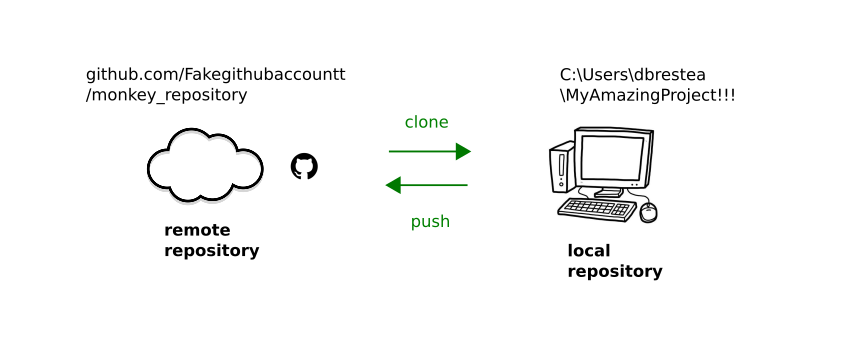
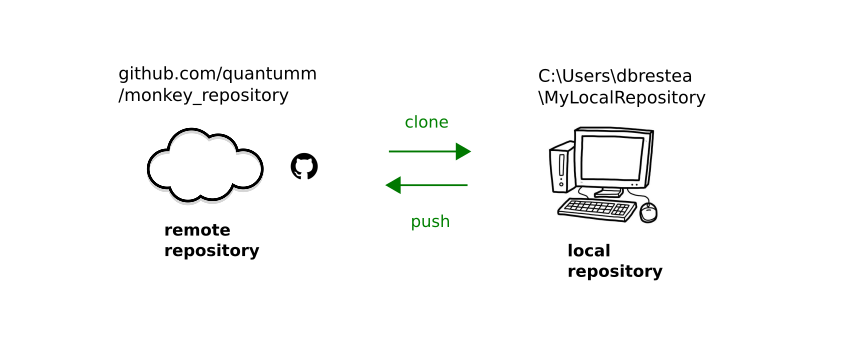
Git tutorial: clean Git basics up to Git in practice section.

Changed region(s): [[0.0927, 0.1714, 0.4328, 0.3143], [0.6183, 0.2, 0.8656, 0.3143]]

diff --git a/docs/src/tutorials/git_tutorial.rst b/docs/src/tutorials/git_tutorial.rst
@@ -492,32 +492,36 @@ First, we will need to create a personal account on GitHub. Please refer to the 
 Create a remote repository
 ++++++++++++++++++++++++++
 
-Once your profile is created, go to the top right of the screen and click on the icon representing your profile.
+Once our profile is created, we go to the top right of the screen and click on the icon representing our profile.
 
-.. figure:: /image/tutorial_git/github_account_2.png
+.. figure:: /image/tutorial_git/github_new_repository.png
     :width: 600
 
 Let’s create a remote repository.
 
-.. figure:: /image/tutorial_git/github_create_remote_repository_2.png
+.. figure:: /image/tutorial_git/github_new_repository_2.png
     :width: 600
 
-.. figure:: /image/tutorial_git/create_remote_repository.png
+.. figure:: /image/tutorial_git/github_new_repository_3.png
     :width: 600
 
-The next page will give us some help to *push* our *local repository* to the newly created *remote repository*.
+Let’s call it *monkey_repository* and click on *Create repository*.
 
-.. figure:: /image/tutorial_git/github_push_local_repository_2.png
-    :width: 600
+.. note::
+    Note that we can create a *public* or a *private* repository. If we want the other users of GitHub
+    to have access to the
+    code that we will put in this repository, we will make it public. Otherwise we will make it private.
 
 Let’s stop here for a bit of vocabulary:
 
 * Our **local repository** is the local folder that we created and configured to be followed by Git. Here it is our
-  *MyAmazingProject!!!* folder, that is stored on our local machine.
+  *MyLocalRepository* folder, that is stored on our local machine.
 * We call **remote repository** the one that we just created. Its name is *monkey_repository* and its Git address is
   *https://github.com/Fakegithubaccountt/monkey_repository.git*.
-* When we talk about **pushing**, we mean that we upload the state of our local repository to the remote repository.
-* When we talk about **cloning**, we mean that we downloaded the state of the remote repository to a local repository.
+* When we will talk about **pushing**, we will mean that we upload the state of our local repository to the remote
+  repository.
+* When we will talk about **cloning**, we will mean that we downloaded the state of the remote repository to a local
+  repository.
 
 All this is summed up in the following schematic.
 
@@ -538,15 +542,13 @@ everything is explained step by step in the following tutorial:
 Push our local repository to GitHub
 +++++++++++++++++++++++++++++++++++
 
-We started this tutorial from a local folder. What we will do now is to push this repository to GitHub servers.
+We started this tutorial from a local folder, and then created a remote repository on our GitHub account.
+For now the latter is empty.
+What we will do now is to push the content of our local repository to our remote repository.
 
 .. note::
-    Note that it is not obvious that you will always work this way. Most of the time, you will start by cloning a remote
-    repository to your local machine.
-
-The following documentation can be helpful to understand what we are going to do in this section:
-
-`Managing remote repositories (github.com)`__
+    Note that it is not obvious that we will always work this way. Most of the time, we will start by cloning a remote
+    repository to our local machine.
 
 __ https://docs.github.com/en/get-started/getting-started-with-git/managing-remote-repositories?platform=windows
 
@@ -555,122 +557,116 @@ now on will be
 connected to the remote repository that we just created on GitHub. The latter is called *origin* by default.
 Be careful to be at the root of our local repository to execute the following command:
 
-``git remote add origin the_git_address_of_our_remote_repository``
+``$ git remote add origin <the Git address of our remote repository>``
 
 .. note::
     The Git address of a repository follows the naming convention
     *https://github.com/GitHub_username/repository_name.git*
 
-It should look like this:
-
-.. figure:: /image/tutorial_git/git_add_remote.png
-    :width: 600
-
 With the next command, we will check that everything is as expected. We call for information about the remote
 repository.
 
-``git remote -v``
+``$ git remote -v``
 
 It should look like this:
 
-.. figure:: /image/tutorial_git/git_remote_v.png
+.. figure:: /image/tutorial_git/git_remote.png
     :width: 600
 
 This is all good. The first line, ending with *fetch*, means that when we will ask to update our local repository (with
 a *pull* command, we will see that latter), it will call the *origin* repository. The second line, ending with *push*,
-means that when we will ask to update the remote repository with the work we have done locally, it will go to origin.
+means that when we will ask to update the remote repository with the work we have done locally, it will go to *origin*.
 
 Let us try to push our repository!
 
-``git push -u origin main``
+``$ git push -u origin main``
 
 .. note::
     Notice that when we push, we push a specific branch, which is *main* here.
 
 It should look like this:
 
-.. figure:: /image/tutorial_git/git_push_success.png
+.. figure:: /image/tutorial_git/git_push.png
     :width: 600
 
 Our file is online!
 
-.. figure:: /image/tutorial_git/repository-online.png
+.. figure:: /image/tutorial_git/github_file_online.png
     :width: 600
 
 But it is not like we just store a file on a server, we also have access to all the history of the commits.
 
-.. figure:: /image/tutorial_git/quantum_monkey_repository.png
+.. figure:: /image/tutorial_git/github_get_commits.png
     :width: 600
 
 Here they are.
 
-.. figure:: /image/tutorial_git/quantum_monkey_repository_commits.png
+.. figure:: /image/tutorial_git/github_commit_history.png
     :width: 600
 
-Let’s click on the second commit *The monkey has been added in our file*.
+Let’s click on the second commit *The funny monkey has been added*.
 
-.. figure:: /image/tutorial_git/quantum_monkey_commit.png
+.. figure:: /image/tutorial_git/github_see_monkey_commit.png
     :width: 600
 
 Here he is!
 
-We see that the GitHub website provides an equivalent to what we see in the terminal.
+We see that the GitHub website provides an equivalent to what we see in the terminal. The advantage is that now we can
+access it from any computer connected to internet!
 
 Finally, the development workflow is as follow:
 
-* Do modifications in the file on your local repository.
+* Do modifications in the file on our local repository.
 
 * Test that the result is as expected.
 
 * Do a commit.
 
-* You can repeat the previous steps several times.
+* We can repeat the previous steps several times.
 
-* At the end of the day, push all your commits to your remote repository.
+* At the end of the day, we push all our commits to our remote repository.
 
-**Now, your remote repository should always be your reference, and not your local version anymore!**
+**Now, our remote repository should always be our reference, and not our local version anymore!**
 
-The lastest version of your code must be stored on the server, not locally. Once your push is done, you can safely
-delete your local folder. You will be able to get your code back at the latest version at any time from any computer,
+The lastest version of our code must be stored on the server, not locally. Once our push is done, we can safely
+delete our local folder. We will be able to get our code back at the latest version at any time from any computer,
 thanks to the *clone* command.
+
+If you have further questions about the management of remote repositories, you can refer to this documentation:
+
+`Managing remote repositories (github.com)`__
 
 The *clone* command
 +++++++++++++++++++
 
-Let start by deleting our folder locally. This command is equivalent to right-click on the folder and Delete.
+Ok so let’s do it, let’s delete our local folder *MyLocalRepository*. We will convince ourself that we can easily find
+it back.
 
-.. figure:: /image/tutorial_git/rm-rf-directory.png
-    :width: 300
+Since our work is now stored on a GitHub server, it is not a problem even if our computer goes up in smoke. We can
+get it back with the *clone* command.
 
-Since our work is now stored in the GitHub server, it is not a problem even if our computer goes up in smoke. We can
-get it back with the following command.
-
-First, copy the adress of the repository
+First, copy the Git adress of the repository
 
 .. figure:: /image/tutorial_git/git-clone.png
     :width: 600
 
-Then, clone the repository
+Then, at our home location, we execute the command
 
-.. figure:: /image/tutorial_git/git-clone-command.png
+``$ git clone <the Git address of our remote repository>``
+
+.. figure:: /image/tutorial_git/git_clone.png
     :width: 600
 
-We created a *pmd_pretraining_git* folder and cd into it just to start from a fresh folder. The command created a
-subfolder monkey_repository with our file into it.
-
-.. figure:: /image/tutorial_git/git-clone-result.png
+.. figure:: /image/tutorial_git/git_clone_from_remote.png
     :width: 400
 
 We found our work back!
 
-Notice that when you clone a repository, you do not need anymore the *init* command.
-You do not need either to configure the address of the remote repository, Git already
-knows where you took it from.
+Notice that when we clone a repository, we do not need anymore the *init* command.
+We do not need either to configure the address of the remote repository, Git already
+knows where to took it from.
 
-.. figure:: /image/tutorial_git/result_of_cloning.png
-    :width: 600
-
-You can do this for any public repository on GitHub, which allows you to download
+We can follow this procedure for any public repository on GitHub, which allows us to download
 basically all the open-source codes in the world!
 
 Git in practice: integration within PyCharm
